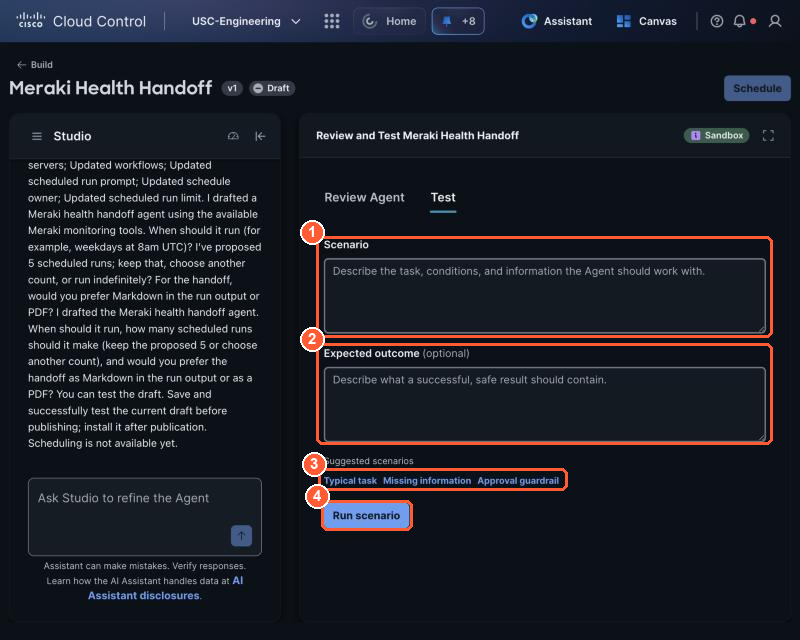
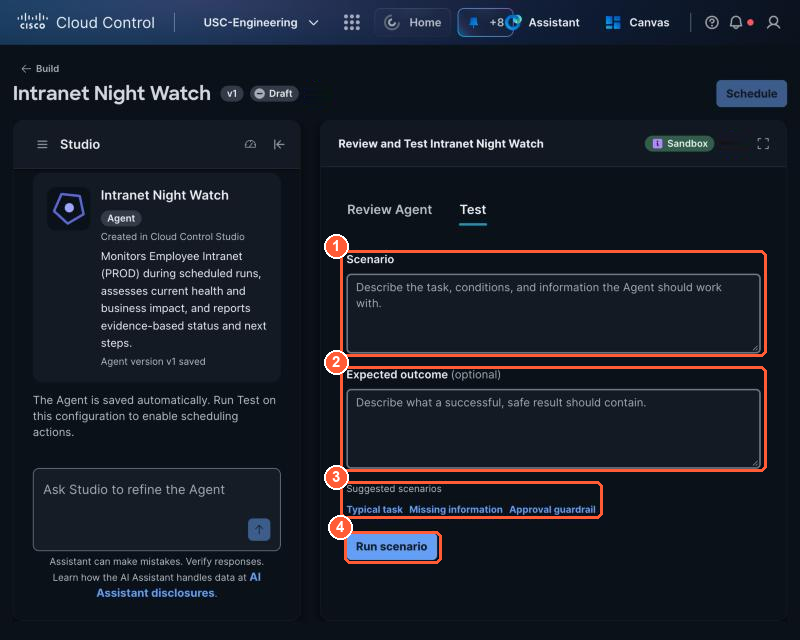
Part 2 builder screenshots from a real Night Watch agent
15, 16 and 17 showed an unrelated "Meraki Health Handoff" agent. They are
now from Intranet Night Watch built with the guide's 3.1 description, and
a new 16b shows the safety rules, integrations and schedule.

diff --git a/docs/part2/3-1-shape-agent.md b/docs/part2/3-1-shape-agent.md
@@ -93,7 +93,11 @@ Read every field. Fix anything by chatting with Studio ("change X to Y"); avoid 
 
 ![16-agent-manifest](../img/16-agent-manifest.png){ loading=lazy }
 
-*The manifest: (1) Instructions, (2) MCP servers and API integrations, (3) Trigger and schedule, with the scheduled run prompt and run limit.*
+*The manifest's Instructions: (1) the Lab Tools operations the agent may call, (2) it starts every run by learning its own seat and watch scope.*
+
+![16b-agent-integrations](../img/16b-agent-integrations.png){ loading=lazy }
+
+*Further down: (1) the safety rules (a scheduled run never stops a lane on its own), (2) the MCP servers and API integrations it uses, (3) Trigger and schedule, with the scheduled run prompt and run limit.*
 
 
 - [ ] **Instructions** include "propose, don't change" and "only after a human approves".
